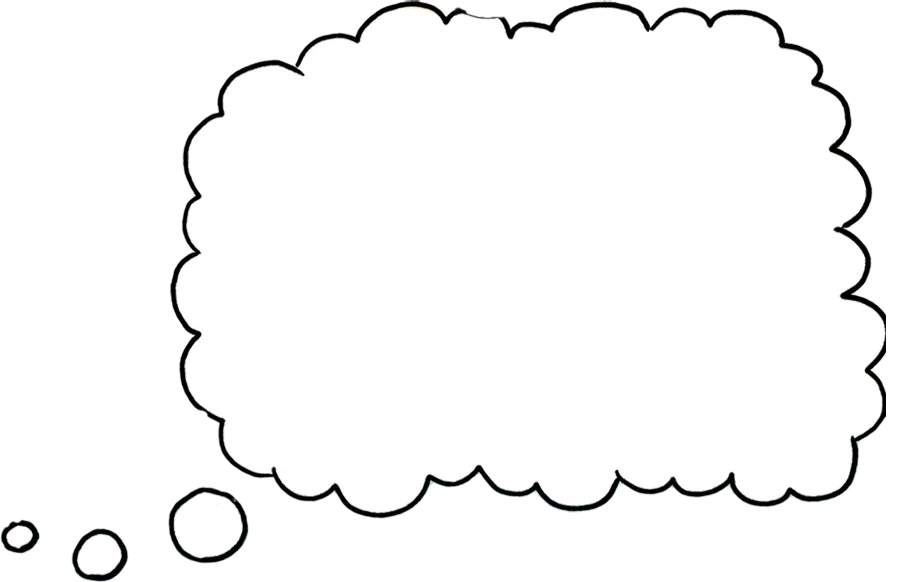
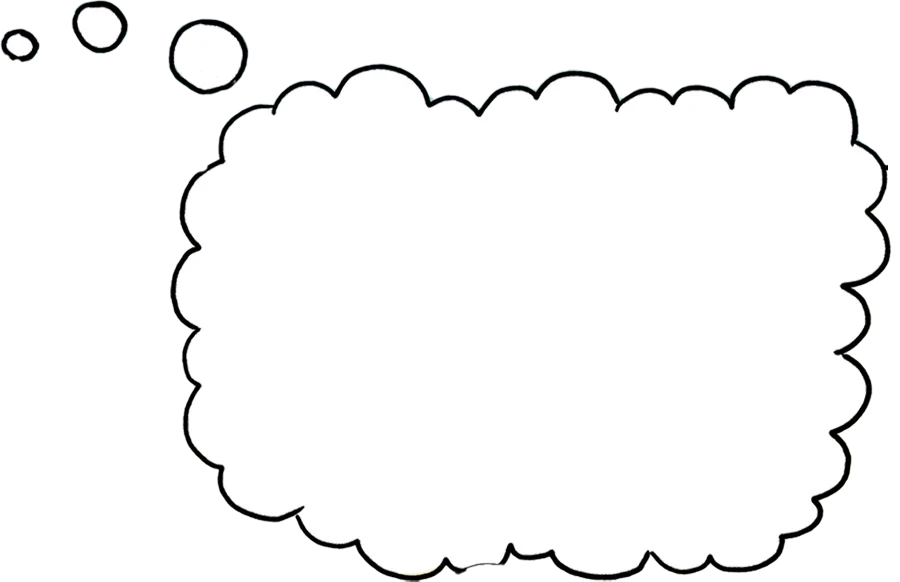
Saanto-PDF: ajatuskupla oikein pain, Basso suuremmaksi ja rajaus laatikon alareunaan
Claude-Session: https://claude.ai/code/session_01NfApP3sNkZmBQFbe4tRRZS

diff --git a/korttisaannot.py b/korttisaannot.py
@@ -597,21 +597,22 @@ def sivu_html(kieli, lahde):
   .alalaatikko .osa {{ flex: 1 }}
   /* 🔵 Marko 6.11.2026: Basson ajatuskuplassa laskutoimitusten symbolit –
      kuva kertoo saman kuin pitka teksti, joten paperin teksti on lyhyt
-     (korttipeli.laskut.paperi). Kupla (paperi/kortit) on kaannetty pystysuunnassa, jotta
-     pikkupallot osoittavat Basson paahan. */
+     (korttipeli.laskut.paperi). Kupla oikein pain (paperi/kortit, reunan
+     irtoviiva poistettu), pikkupallot nousevat kohti Basson paata. */
   .huomio.alalaatikko {{ padding-left: 3mm }}
-  .ajattelee {{ flex: none; position: relative; width: 50mm; height: 24mm;
-                align-self: stretch }}
-  .alalaatikko .ajattelee img.basso {{ position: absolute; left: 0; bottom: 0;
-      width: 15mm; margin: 0 0 calc(-2.6mm - 15mm * .1536) }}
-  .kupla {{ position: absolute; right: 0; top: 0; width: 39mm }}
-  .alalaatikko .kupla > img {{ width: 100%; margin: 0; display: block;
-                               }}
-  .merkit {{ position: absolute; left: 25%; right: 8%; top: 10%; bottom: 24%;
+  .ajattelee {{ flex: none; position: relative; width: 55mm; align-self: stretch;
+                min-height: 22mm }}
+  /* Basson vartalon suora leikkaus laatikon alareunaan, kyynarpaa
+     (15,36 % leveydesta) jaa sen alle (Marko 3.11. ja 6.11.2026) */
+  .alalaatikko .ajattelee img.basso {{ position: absolute; left: 0;
+      bottom: calc(-1.4mm - 21mm * .1536); width: 21mm; margin: 0 }}
+  .kupla {{ position: absolute; right: 0; bottom: 0; width: 36mm }}
+  .alalaatikko .kupla > img {{ width: 100%; margin: 0; display: block }}
+  .merkit {{ position: absolute; left: 26%; right: 7%; top: 24%; bottom: 8%;
              display: grid; grid-template-columns: repeat(4, 1fr);
              align-items: center; justify-items: center;
-             font: 900 13pt/1 Viiri, sans-serif; color: {musta} }}
-  .merkit span:nth-child(n+5) {{ font: 700 10.5pt/1 Otsikko, sans-serif }}
+             font: 900 12pt/1 Viiri, sans-serif; color: {musta} }}
+  .merkit span:nth-child(n+5) {{ font: 700 10pt/1 Otsikko, sans-serif }}
   .merkit sup {{ font-size: .6em }}
   .alalaatikko h3 {{ margin: 0 0 .6mm }}
   .alalaatikko p {{ font-size: 8.8pt; margin: 0 }}
